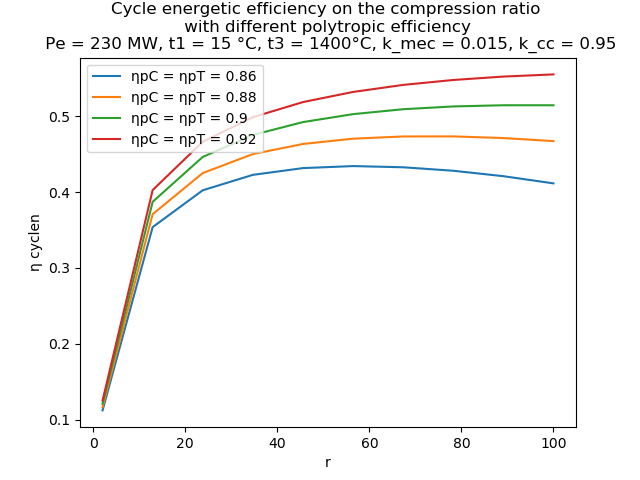
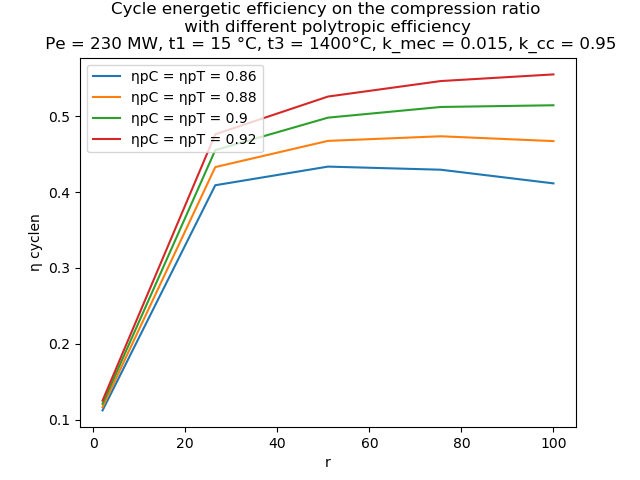
go

diff --git a/parametricGraphe.py b/parametricGraphe.py
@@ -6,7 +6,7 @@ import matplotlib.pyplot as plt;
 import GT_arguments as GT_arg;
 import GTcomb_arguments as GTcomb_arg
 import combustionGT as comb;
-import GT as gt
+import GT2 as gt
 
 """
 J'ai crée une fonction pour afficher les graphes pour le moment 3 choix possibles :
@@ -32,16 +32,16 @@ def parametricGraphic(M,number):
         for j in range (0,4):
             if j==0:
                 for i in range (0,len(x)) :
-                    y1[i] = gt.GT_simple(GT_arg.GT_input(Pe = 230e3,k_mec =0.015, T_ext=15,T_0 = 15,r=x[i],k_cc=0.95,T3 = T[j]))[0].eta[0]
+                    y1[i] = gt.GT(GT_arg.GT_input(Pe = 230e3,k_mec =0.015, T_ext=15,T_0 = 15,r=x[i],k_cc=0.95,T3 = T[j]))[0].eta[0]
             if j==1:
                 for i in range (0,len(x)) :
-                    y2[i] = gt.GT_simple(GT_arg.GT_input(Pe = 230e3,k_mec =0.015, T_ext=15,T_0 = 15,r=x[i],k_cc=0.95,T3 = T[j]))[0].eta[0]
+                    y2[i] = gt.GT(GT_arg.GT_input(Pe = 230e3,k_mec =0.015, T_ext=15,T_0 = 15,r=x[i],k_cc=0.95,T3 = T[j]))[0].eta[0]
             if j==2:
                 for i in range (0,len(x)) :
-                    y3[i] = gt.GT_simple(GT_arg.GT_input(Pe = 230e3,k_mec =0.015, T_ext=15,T_0 = 15,r=x[i],k_cc=0.95,T3 = T[j]))[0].eta[0]
+                    y3[i] = gt.GT(GT_arg.GT_input(Pe = 230e3,k_mec =0.015, T_ext=15,T_0 = 15,r=x[i],k_cc=0.95,T3 = T[j]))[0].eta[0]
             if j==3:
                 for i in range (0,len(x)) :
-                    y4[i] = gt.GT_simple(GT_arg.GT_input(Pe = 230e3,k_mec =0.015, T_ext=15,T_0 = 15,r=x[i],k_cc=0.95,T3 = T[j]))[0].eta[0]
+                    y4[i] = gt.GT(GT_arg.GT_input(Pe = 230e3,k_mec =0.015, T_ext=15,T_0 = 15,r=x[i],k_cc=0.95,T3 = T[j]))[0].eta[0]
 
         fig=plt.figure()
         plt.plot(x,y1,x,y2,x,y3,x,y4)
@@ -63,16 +63,16 @@ def parametricGraphic(M,number):
         for j in range (0,4):
             if j==0:
                 for i in range (0,len(x)) :
-                    y1[i] = gt.GT_simple(GT_arg.GT_input(Pe = 230e3,k_mec =0.015, T_ext=15,T_0 = 15,r=x[i],k_cc=0.95,T3 = 1400,eta_PiC=eta_pic_pit[j],eta_PiT=eta_pic_pit[j]))[0].eta[0]
+                    y1[i] = gt.GT(GT_arg.GT_input(Pe = 230e3,k_mec =0.015, T_ext=15,T_0 = 15,r=x[i],k_cc=0.95,T3 = 1400,eta_PiC=eta_pic_pit[j],eta_PiT=eta_pic_pit[j]))[0].eta[0]
             if j==1:
                 for i in range (0,len(x)) :
-                    y2[i] = gt.GT_simple(GT_arg.GT_input(Pe = 230e3,k_mec =0.015, T_ext=15,T_0 = 15,r=x[i],k_cc=0.95,T3 = 1400,eta_PiC=eta_pic_pit[j],eta_PiT=eta_pic_pit[j]))[0].eta[0]
+                    y2[i] = gt.GT(GT_arg.GT_input(Pe = 230e3,k_mec =0.015, T_ext=15,T_0 = 15,r=x[i],k_cc=0.95,T3 = 1400,eta_PiC=eta_pic_pit[j],eta_PiT=eta_pic_pit[j]))[0].eta[0]
             if j==2:
                 for i in range (0,len(x)) :
-                    y3[i] = gt.GT_simple(GT_arg.GT_input(Pe = 230e3,k_mec =0.015, T_ext=15,T_0 = 15,r=x[i],k_cc=0.95,T3 = 1400,eta_PiC=eta_pic_pit[j],eta_PiT=eta_pic_pit[j]))[0].eta[0]
+                    y3[i] = gt.GT(GT_arg.GT_input(Pe = 230e3,k_mec =0.015, T_ext=15,T_0 = 15,r=x[i],k_cc=0.95,T3 = 1400,eta_PiC=eta_pic_pit[j],eta_PiT=eta_pic_pit[j]))[0].eta[0]
             if j==3:
                 for i in range (0,len(x)) :
-                    y4[i] = gt.GT_simple(GT_arg.GT_input(Pe = 230e3,k_mec =0.015, T_ext=15,T_0 = 15,r=x[i],k_cc=0.95,T3 = 1400,eta_PiC=eta_pic_pit[j],eta_PiT=eta_pic_pit[j]))[0].eta[0]
+                    y4[i] = gt.GT(GT_arg.GT_input(Pe = 230e3,k_mec =0.015, T_ext=15,T_0 = 15,r=x[i],k_cc=0.95,T3 = 1400,eta_PiC=eta_pic_pit[j],eta_PiT=eta_pic_pit[j]))[0].eta[0]
 
         fig=plt.figure()
         plt.plot(x,y1,x,y2,x,y3,x,y4)
@@ -94,16 +94,16 @@ def parametricGraphic(M,number):
         for j in range (0,4):
             if j==0:
                 for i in range (0,len(x)) :
-                    y1[i] = gt.GT_simple(GT_arg.GT_input(Pe = 230e3,k_mec =0.015, T_ext=15,T_0 = 15,r=x[i],k_cc=0.95,T3 = T[j]))[1]
+                    y1[i] = gt.GT(GT_arg.GT_input(Pe = 230e3,k_mec =0.015, T_ext=15,T_0 = 15,r=x[i],k_cc=0.95,T3 = T[j]))[1]
             if j==1:
                 for i in range (0,len(x)) :
-                    y2[i] = gt.GT_simple(GT_arg.GT_input(Pe = 230e3,k_mec =0.015, T_ext=15,T_0 = 15,r=x[i],k_cc=0.95,T3 = T[j]))[1]
+                    y2[i] = gt.GT(GT_arg.GT_input(Pe = 230e3,k_mec =0.015, T_ext=15,T_0 = 15,r=x[i],k_cc=0.95,T3 = T[j]))[1]
             if j==2:
                 for i in range (0,len(x)) :
-                    y3[i] = gt.GT_simple(GT_arg.GT_input(Pe = 230e3,k_mec =0.015, T_ext=15,T_0 = 15,r=x[i],k_cc=0.95,T3 = T[j]))[1]
+                    y3[i] = gt.GT(GT_arg.GT_input(Pe = 230e3,k_mec =0.015, T_ext=15,T_0 = 15,r=x[i],k_cc=0.95,T3 = T[j]))[1]
             if j==3:
                 for i in range (0,len(x)) :
-                    y4[i] = gt.GT_simple(GT_arg.GT_input(Pe = 230e3,k_mec =0.015, T_ext=15,T_0 = 15,r=x[i],k_cc=0.95,T3 = T[j]))[1]
+                    y4[i] = gt.GT(GT_arg.GT_input(Pe = 230e3,k_mec =0.015, T_ext=15,T_0 = 15,r=x[i],k_cc=0.95,T3 = T[j]))[1]
         plt.plot(x,y1,x,y2,x,y3,x,y4)
         plt.legend(('t3 = 1000 °C', 't3 = 1200 °C', 't3 = 1400 °C','t3 = 1600 °C'),
                    loc='upper left')
@@ -122,16 +122,16 @@ def parametricGraphic(M,number):
         for j in range (0,4):
             if j==0:
                 for i in range (0,len(x)) :
-                    y1[i] = gt.GT_simple(GT_arg.GT_input(Pe = 230e3,k_mec =0.015, T_ext=15,T_0 = 15,r=x[i],k_cc=0.95,T3 = T[j]))[2]
+                    y1[i] = gt.GT(GT_arg.GT_input(Pe = 230e3,k_mec =0.015, T_ext=15,T_0 = 15,r=x[i],k_cc=0.95,T3 = T[j]))[2]
             if j==1:
                 for i in range (0,len(x)) :
-                    y2[i] = gt.GT_simple(GT_arg.GT_input(Pe = 230e3,k_mec =0.015, T_ext=15,T_0 = 15,r=x[i],k_cc=0.95,T3 = T[j]))[2]
+                    y2[i] = gt.GT(GT_arg.GT_input(Pe = 230e3,k_mec =0.015, T_ext=15,T_0 = 15,r=x[i],k_cc=0.95,T3 = T[j]))[2]
             if j==2:
                 for i in range (0,len(x)) :
-                    y3[i] = gt.GT_simple(GT_arg.GT_input(Pe = 230e3,k_mec =0.015, T_ext=15,T_0 = 15,r=x[i],k_cc=0.95,T3 = T[j]))[2]
+                    y3[i] = gt.GT(GT_arg.GT_input(Pe = 230e3,k_mec =0.015, T_ext=15,T_0 = 15,r=x[i],k_cc=0.95,T3 = T[j]))[2]
             if j==3:
                 for i in range (0,len(x)) :
-                    y4[i] = gt.GT_simple(GT_arg.GT_input(Pe = 230e3,k_mec =0.015, T_ext=15,T_0 = 15,r=x[i],k_cc=0.95,T3 = T[j]))[2]
+                    y4[i] = gt.GT(GT_arg.GT_input(Pe = 230e3,k_mec =0.015, T_ext=15,T_0 = 15,r=x[i],k_cc=0.95,T3 = T[j]))[2]
         plt.plot(x,y1,x,y2,x,y3,x,y4)
         plt.legend(('t3 = 1000 °C', 't3 = 1200 °C', 't3 = 1400 °C','t3 = 1600 °C'),
                    loc='upper left')
@@ -149,10 +149,10 @@ def parametricGraphic(M,number):
         for j in range (0,5):
             if j==0:
                 for i in range (0,len(x)) :
-                    y1[i] = gt.GT_simple(GT_arg.GT_input(Pe = 230e3,k_mec =0.015, T_ext=15,T_0 = 15,r=x[i],k_cc=0.95,T3 = 1400))[0].eta[0]
+                    y1[i] = gt.GT(GT_arg.GT_input(Pe = 230e3,k_mec =0.015, T_ext=15,T_0 = 15,r=x[i],k_cc=0.95,T3 = 1400))[0].eta[0]
             if j==1:
                 for i in range (0,len(x)) :
-                    y2[i] = gt.GT_simple(GT_arg.GT_input(Pe = 230e3,k_mec =0.015, T_ext=15,T_0 = 15,r=x[i],k_cc=0.95,T3 = 1400))[0].eta[1]
+                    y2[i] = gt.GT(GT_arg.GT_input(Pe = 230e3,k_mec =0.015, T_ext=15,T_0 = 15,r=x[i],k_cc=0.95,T3 = 1400))[0].eta[1]
         plt.plot(x,y1,x,y2)
         plt.legend(('\u03B7 cyclen', '\u03B7 toten'),
                    loc='upper left')
@@ -175,20 +175,20 @@ def parametricGraphic(M,number):
         for j in range (0,4):
             if j==0:
                 for i in range (0,len(x)) :
-                    x1[i] = gt.GT_simple(GT_arg.GT_input(Pe = 230e3,k_mec =0.015, T_ext=15,T_0 = 15,r=x[i],k_cc=0.95,T3 = T[j]))[1]
-                    y1[i] = gt.GT_simple(GT_arg.GT_input(Pe = 230e3,k_mec =0.015, T_ext=15,T_0 = 15,r=x[i],k_cc=0.95,T3 = T[j]))[0].eta[0]
+                    x1[i] = gt.GT(GT_arg.GT_input(Pe = 230e3,k_mec =0.015, T_ext=15,T_0 = 15,r=x[i],k_cc=0.95,T3 = T[j]))[1]
+                    y1[i] = gt.GT(GT_arg.GT_input(Pe = 230e3,k_mec =0.015, T_ext=15,T_0 = 15,r=x[i],k_cc=0.95,T3 = T[j]))[0].eta[0]
             if j==1:
                 for i in range (0,len(x)) :
-                    x2[i] = gt.GT_simple(GT_arg.GT_input(Pe = 230e3,k_mec =0.015, T_ext=15,T_0 = 15,r=x[i],k_cc=0.95,T3 = T[j]))[1]
-                    y2[i] = gt.GT_simple(GT_arg.GT_input(Pe = 230e3,k_mec =0.015, T_ext=15,T_0 = 15,r=x[i],k_cc=0.95,T3 = T[j]))[0].eta[0]
+                    x2[i] = gt.GT(GT_arg.GT_input(Pe = 230e3,k_mec =0.015, T_ext=15,T_0 = 15,r=x[i],k_cc=0.95,T3 = T[j]))[1]
+                    y2[i] = gt.GT(GT_arg.GT_input(Pe = 230e3,k_mec =0.015, T_ext=15,T_0 = 15,r=x[i],k_cc=0.95,T3 = T[j]))[0].eta[0]
             if j==2:
                 for i in range (0,len(x)) :
-                    x3[i] = gt.GT_simple(GT_arg.GT_input(Pe = 230e3,k_mec =0.015, T_ext=15,T_0 = 15,r=x[i],k_cc=0.95,T3 = T[j]))[1]
-                    y3[i] = gt.GT_simple(GT_arg.GT_input(Pe = 230e3,k_mec =0.015, T_ext=15,T_0 = 15,r=x[i],k_cc=0.95,T3 = T[j]))[0].eta[0]
+                    x3[i] = gt.GT(GT_arg.GT_input(Pe = 230e3,k_mec =0.015, T_ext=15,T_0 = 15,r=x[i],k_cc=0.95,T3 = T[j]))[1]
+                    y3[i] = gt.GT(GT_arg.GT_input(Pe = 230e3,k_mec =0.015, T_ext=15,T_0 = 15,r=x[i],k_cc=0.95,T3 = T[j]))[0].eta[0]
             if j==3:
                 for i in range (0,len(x)) :
-                    x4[i] = gt.GT_simple(GT_arg.GT_input(Pe = 230e3,k_mec =0.015, T_ext=15,T_0 = 15,r=x[i],k_cc=0.95,T3 = T[j]))[1]
-                    y4[i] = gt.GT_simple(GT_arg.GT_input(Pe = 230e3,k_mec =0.015, T_ext=15,T_0 = 15,r=x[i],k_cc=0.95,T3 = T[j]))[0].eta[0]
+                    x4[i] = gt.GT(GT_arg.GT_input(Pe = 230e3,k_mec =0.015, T_ext=15,T_0 = 15,r=x[i],k_cc=0.95,T3 = T[j]))[1]
+                    y4[i] = gt.GT(GT_arg.GT_input(Pe = 230e3,k_mec =0.015, T_ext=15,T_0 = 15,r=x[i],k_cc=0.95,T3 = T[j]))[0].eta[0]
         plt.plot(x1,y1,x2,y2,x3,y3,x4,y4)
         plt.legend(('t3 = 1000 °C', 't3 = 1200 °C', 't3 = 1400 °C','t3 = 1600 °C'),
                    loc='upper left')

diff --git a/GT2.py b/GT2.py
@@ -265,88 +265,8 @@ def GT(GT_input):
     outputs.combustion.e_c = comb_outputs.e_c
     outputs.combustion.Cp_g = useful.cp_air(400,conc_mass2,Mm_af)/1000
 
-    """
-    10) pie charts and cycle graphs
-    """
 
-    # pie chart of the energie flux in the cycle
-    fig,ax =  plt.subplots(figsize=(6, 3), subplot_kw=dict(aspect="equal"))
-    data = [Pe,P_fmec,P_out]
-    labels = ['Puissance effective {v} [MW]'.format(v=round(Pe/1000)),'Pertes mecaniques {v} [MW]'.format(v=round(P_fmec/1000)),'Pertes à la sortie {v} [MW]'.format(v=round(P_out/1000))]
-
-    ax.pie(data,labels = labels,autopct='%1.2f%%',startangle = 90)
-    ax.set_title("Flux energetique primaire "+ str(round(P_comb/10**3)) + "[MW]")
-    #plt.savefig('figures/energie_pie.png') # a enlever  a la soumission
-
-    # pie chart of the exergie flux in the cycle
-    fig2,ax =  plt.subplots(figsize=(6, 3), subplot_kw=dict(aspect="equal"))
-    data = [Pe,P_fmec,L_t,L_c,L_exhaust,L_comb]
-    labels = ['Puissance effective {v} [MW]'.format(v=round(Pe/1000)),'Pertes mecaniques {v} [MW]'.format(v=round(P_fmec/1000)),'Pertes à la turbine {v} [MW]'.format(v=round(L_t/1000)),
-                              'Pertes au compresseur {v} [MW]'.format(v=round(L_c/1000)), 'Pertes à la sortie {v} [MW]'.format(v=round(L_exhaust/1000)), 'Pertes à la combustion {v} [MW]'.format(v=round(L_comb/1000))]
-
-
-    ax.pie(data,labels = labels,autopct="%1.2f%%",startangle = 90)
-    ax.set_title("Flux exergetique primaire "+ str(round(ec*mf_c/10**3)) + "[MW]")
-    #plt.savefig('figures/exergie_pie.png')
-
-    # T S graph of the cycle
-    Ta = np.linspace(T1,T2,50)
-    #Tb = np.linspace(T2,T3,50)
-    Tc = np.linspace(T4,T3,50)
-    Td = np.linspace(T1,T4,50)
-    Sa= np.zeros(len(Ta))
-    #Sb = np.zeros(len(Tb))
-    Sc = np.zeros(len(Tc))
-    #Sd = np.zeros(len(Td))
-    for i in range(len(Ta)):
-        Sa[i] = s1+(1-eta_pic)*useful.janaf_integrate_air(useful.cp_air_T,conc_mass1,Mm_a,T1,Ta[i],dt)
-        Sc[i] = s4-(1-eta_pit)/eta_pit*useful.janaf_integrate_air(useful.cp_air_T,conc_mass1,Mm_a,T4,Tc[i],dt)
-        #Sb[i] = s2+useful.janaf_integrate_air(useful.cp_air_T,conc_mass1,Mm_a,T2,Tb[i],dt)
-        #Sd[i]= s1 + useful.janaf_integrate_air(useful.cp_air_T,conc_mass1,Mm_a,T1,Td[i],dt)
-
-    Sb=np.linspace(Sa[-1],Sc[-1],50)
-    a,b,c= np.polyfit([Sa[-1],s3],[Ta[-1],T3],2)#  ==> c est faux
-    Sd=np.linspace(Sa[0],Sc[0],50)
-    a2,b2,c2= np.polyfit([s1,s4],[T1,T4],2) #==> c est faux
-
-    fig3,ax1 = plt.subplots()
-    ax1.plot(Sa,Ta-273.15,Sc,Tc-273.15,Sb,a*Sb**2+b*Sb+c-273.15,Sd,a2*Sd**2+b2*Sd+c2-273.15)
-    ax1.scatter([s1,Sa[-1],s3,s4],[T1-273.15,Ta[-1]-273.15,T3-273.15,T4-273.15],s=10,label='extremities')
-    ax1.set_xlabel('Entropy [J/kg/K]')
-    ax1.set_ylabel('Tempearature [°C]')
-    ax1.grid(True)
-    ax1.set_title('T S graph of the gaz turbine cycle')
-    ax1.legend()
-
-    #plt.savefig('figures/TSgraph.png')
-
-    # p v graph of the cycle
-    pa = np.linspace(p1,p2,50)
-    pb = np.linspace(p4,p3,50)
-    va = R/pa*(pa/p1)**(exposant_c)*T1
-    vb = R/pb*(pb/p4)**(exposant_t)*T4
-    m,b = np.polyfit([va[-1],vb[-1]], [pa[-1],pb[-1]], 1)
-    vc = np.linspace(va[-1],vb[-1],10)
-    pc = m*vc+b
-    vd = np.linspace(va[0],vb[0],10)
-
-    fig4,ax2=plt.subplots()
-    ax2.plot(va,pa,vb,pb,vc,pc,vd,p4*np.ones(len(vd)))
-    ax2.scatter([R*T1/p1,R*T2/p2,R*T3/p3,R*T4/p4],[p1,p2,p3,p4],s=10,label='extremities')
-    ax2.set_xlabel('specific volume $[m^3/kg]$')
-    ax2.set_ylabel('pressure [bar]')
-    ax2.grid(True)
-    ax2.set_title('v P graph of the gaz turbine cycle')
-    ax2.legend()
-    #plt.savefig('figures/PVgraph.png')
-
-    fig = [fig,fig2,fig3,fig4]
-    outputs.fig = fig
-    if (GT_input.Display == 1):
-        plt.show(fig)
-
-    print('here',useful.janaf_integrate_air(useful.cp_air,conc_mass1,Mm_a,T0-15,T0,dt))
-    return outputs;
+    return outputs,Wm,eta_mec;
 
 """
 attention, la temperature de reference dans janaf n est pas 288.15 mais 298.15

diff --git a/Correction_4students.py b/Correction_4students.py
@@ -31,7 +31,7 @@ for gr in GROUPS:
 #
         # Print and save all figure generated by students
         for i in range(len(GToutputs.fig)):
-            #GToutputs.fig[i].show()
+            GToutputs.fig[i].show()
             figname = './%s/figures/GT%d.pdf' % (path, i)
             print(figname)
             GToutputs.fig[i].savefig(figname)

diff --git a/windowtest.py b/windowtest.py
@@ -7,7 +7,7 @@ import matplotlib.pyplot as plt;
 import GT_arguments as GT_arg;
 import GTcomb_arguments as GTcomb_arg
 import combustionGT as comb;
-import GT as gt
+import GT2 as gt
 import parametricGraphe as pg
 
 # Define the window's contents
